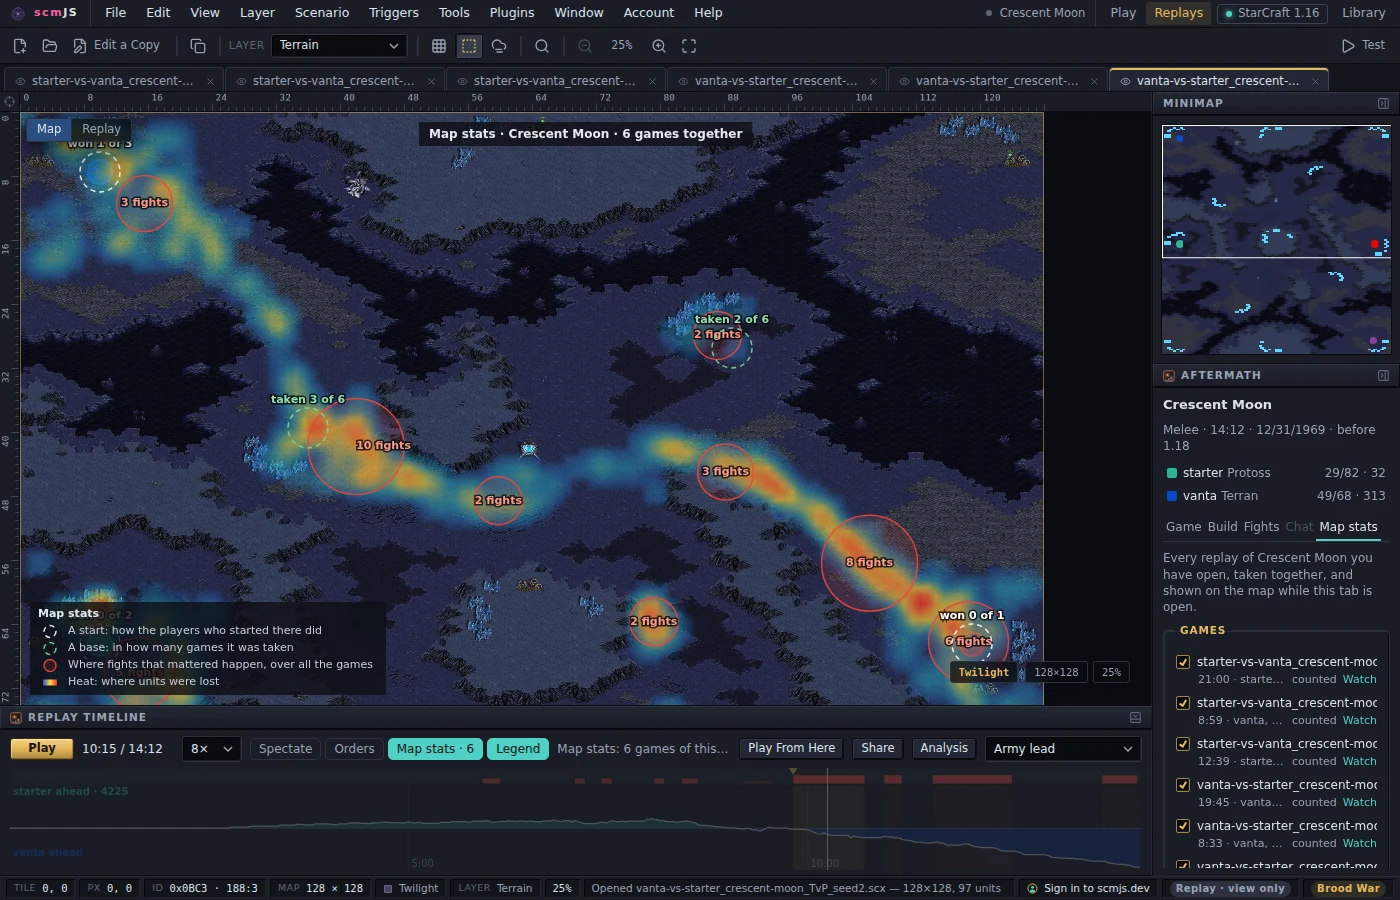
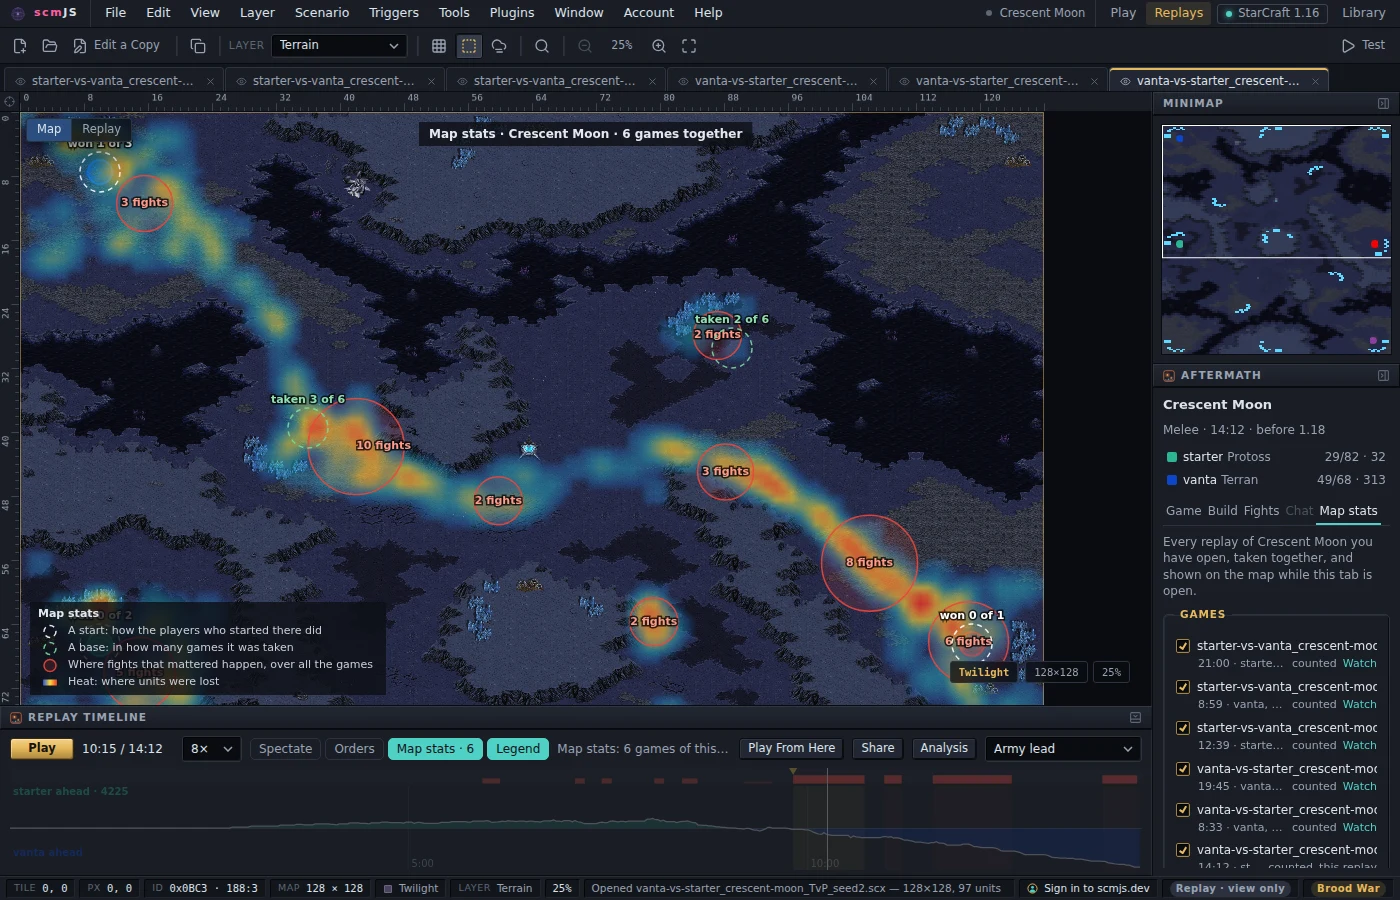
Pin Aftermath v0.27.1: a bot ladder's replay shows no date
A replay whose header carries a seed where the start time goes (scmjs bot
ladder's) read 12/31/1969 under the map's name. The guide's replay pictures,
taken from such replays, are taken again with it.

Claude-Session: https://claude.ai/code/session_01VEdp4VmmNcU4rJMjzWA4pZ

Changed region(s): [[0.8293, 0.4667, 1.0, 0.9644]]

diff --git a/src/plugins/defaults.ts b/src/plugins/defaults.ts
@@ -51,7 +51,7 @@ export interface DefaultPlugin {
  * item's `after:` finds another plugin's item whichever of the two started first.
  */
 export const DEFAULT_REMOTE_PLUGINS: readonly DefaultPlugin[] = [
-  { spec: "github:scm-js/plugin-aftermath@v0.27.0", enabled: true },
+  { spec: "github:scm-js/plugin-aftermath@v0.27.1", enabled: true },
   { spec: "github:scm-js/plugin-paint@v1.1.0", enabled: true },
   { spec: "github:scm-js/plugin-repair@v1.6.3", enabled: true },
   { spec: "github:scm-js/plugin-scm-sim@v0.21.0", enabled: true },
